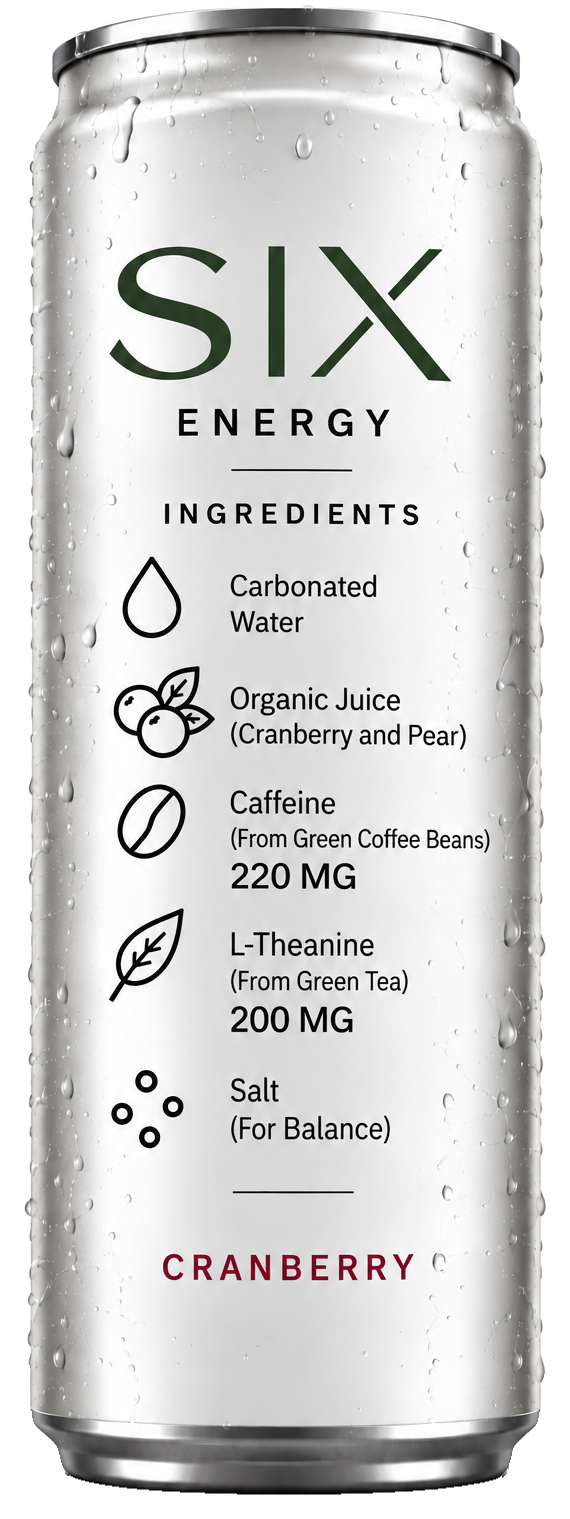
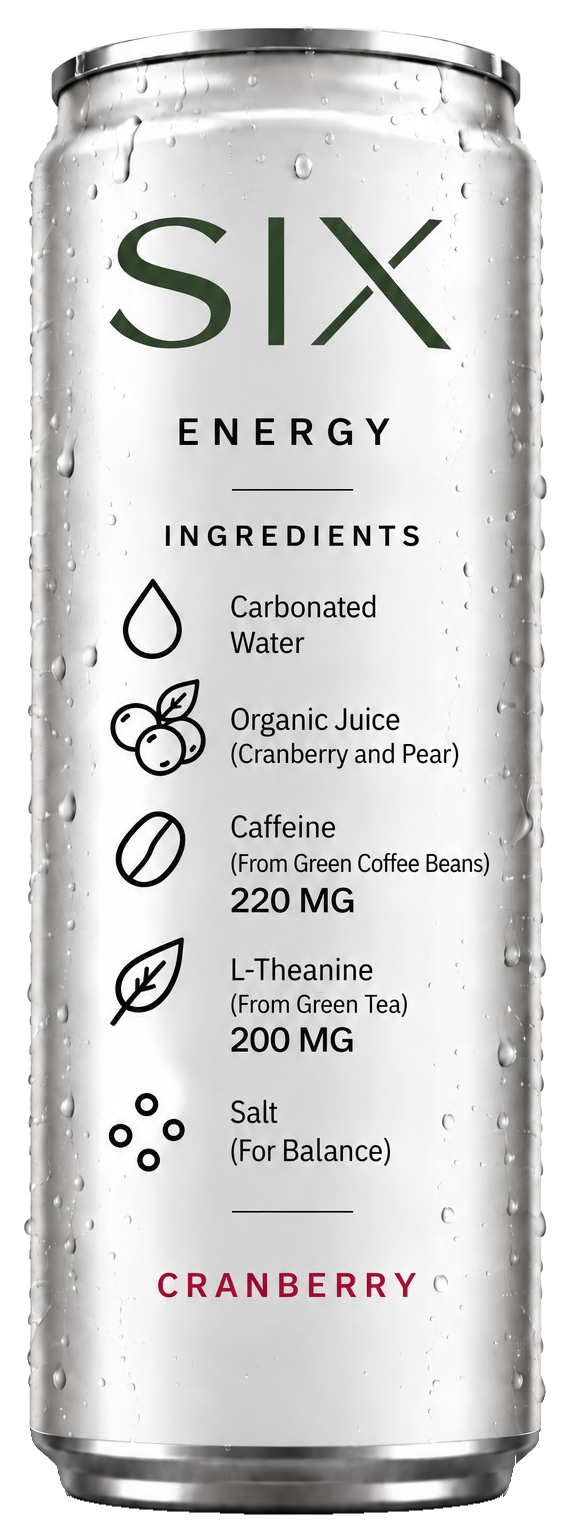
Swap Orange for Pomegranate and use the v2 can art
The lineup is now Cranberry, Lemon and Pomegranate (organic pomegranate and
lemon juice), with the founder's new can renders for all three. Orange, the
Grape mock-up and the scene photos are removed.

- Pomegranate gets its own accent, #93224A (7.14:1 with paper text).
- Product pages skip the scene photo when there isn't one, instead of an
  empty placeholder.
- Drink-tile names are sized so "Pomegranate" clears its can, and the tiles
  stack below 960px, where the small ones got too narrow.
- FAQ, product page description and claims notes name the new lineup.

Claude-Session: https://claude.ai/code/session_011c3exesg42141CUZ7vQSMs

diff --git a/src/styles/tokens.css b/src/styles/tokens.css
@@ -53,14 +53,14 @@
   /* One deep accent per SKU. Muted, never bright.
    *
    * `field` is the band color. `onText` is what is legible ON it. `ink` is the
-   * value that survives as small text on paper. Cranberry and orange are dark
+   * value that survives as small text on paper. Cranberry and pomegranate are dark
    * enough that field and ink are the same value; lemon is not, so it carries
    * a darker sibling and takes ink, not paper, as its on-colour. These must
    * match the flavor entries in src/content/flavors/. */
   --c-cranberry: #7a1e26;
   --c-cranberry-ink: #7a1e26;
-  --c-orange: #9c4a24;
-  --c-orange-ink: #9c4a24;
+  --c-pomegranate: #93224a;
+  --c-pomegranate-ink: #93224a;
   --c-lemon: #b98a2e;
   --c-lemon-ink: #7a5a16;
 
@@ -86,8 +86,8 @@
    *   stone on paper .................... 6.08  AA   secondary
    *   cranberry on paper ................ 8.98  AAA  accent text, focus
    *   paper on cranberry ................ 8.98  AAA  cranberry band
-   *   orange on paper ................... 5.36  AA
-   *   paper on orange ................... 5.36  AA   orange band
+   *   pomegranate on paper .............. 7.14  AAA
+   *   paper on pomegranate .............. 7.14  AAA  pomegranate band
    *   forest on paper .................. 10.25  AAA  wordmark
    *   ink on lemon ...................... 5.64  AA   lemon band
    *   lemon-ink on paper ................ 5.55  AA

diff --git a/src/data/claims.ts b/src/data/claims.ts
@@ -18,8 +18,8 @@
  * carbonated water, two organic fruit juices, caffeine from green coffee
  * beans, L-theanine from green tea, salt. 20% juice from concentrate. 220mg
  * caffeine, 200mg L-theanine. No added sugar and no sweetener of any kind.
- * SKUs: Cranberry (cranberry and pear), Lemon (lemon and pear), Orange
- * (orange and lemon). Acacia and the apple blend are gone.
+ * SKUs: Cranberry (cranberry and pear), Lemon (lemon and pear), Pomegranate
+ * (pomegranate and lemon). Orange was dropped on 2026-10-05. Acacia and the apple blend are gone.
  *
  * Several notes further down (sections 4c and 4d) describe the retired SANS
  * packaging. They are kept as the record of what was reviewed, not as current

diff --git a/src/data/copy.ts b/src/data/copy.ts
@@ -114,7 +114,7 @@ export const copy = copySchema.parse({
     seo: {
       title: 'The lineup',
       description:
-        `Cranberry, lemon and orange. Six ingredients each, made with real fruit juice, with ${product.caffeineMg}mg caffeine from green coffee beans, in a 12 ounce can.`,
+        `Cranberry, lemon and pomegranate. Six ingredients each, made with real fruit juice, with ${product.caffeineMg}mg caffeine from green coffee beans, in a 12 ounce can.`,
     },
     heading: 'The lineup',
     intro:

diff --git a/src/styles/global.css b/src/styles/global.css
@@ -215,7 +215,7 @@ a.accent {
  * reads as a section, and it ties the landing page to the flavour pages and
  * the cans, which use the same three values.
  *
- * ONLY cranberry and orange carry paper text (8.98 and 5.36). Lemon is 2.72
+ * ONLY cranberry and pomegranate carry paper text (8.98 and 7.14). Lemon is 2.72
  * against paper and must use ink instead, which is why the on-colour is passed
  * in rather than assumed. The flavour entries already declare their own
  * on-colour for exactly this reason.

diff --git a/src/content/flavors/pomegranate.md b/src/content/flavors/pomegranate.md
@@ -1,0 +1,23 @@
+---
+name: Pomegranate
+order: 3
+status: in-development
+description: 'Carbonated water, organic pomegranate juice and organic lemon juice, with caffeine from green coffee beans, L-theanine from green tea, and salt. Six ingredients. No added sugar.'
+# Label order. Six slots on every SKU; the two juice lines change by can.
+# The can prints the two juices on one line, "Organic Juice (Pomegranate and Lemon)".
+ingredients:
+  - Carbonated water
+  - Organic pomegranate juice
+  - Organic lemon juice
+  - Caffeine
+  - L-theanine
+  - Salt
+juicePercent: 20
+canSizeFlOz: 12
+caffeineMg: 220
+lTheanineMg: 200
+color:
+  field: '#93224A'
+  onText: '#F4EFE6'
+  ink: '#93224A'
+---
